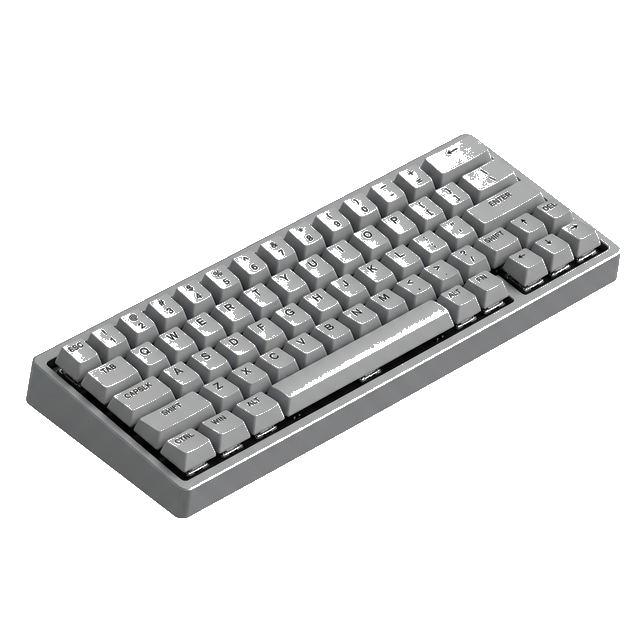
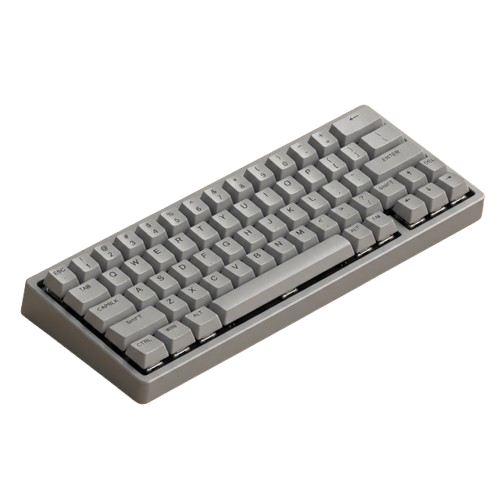
fixing the keyboard image, improve horizontal scrollbar, improve movement card and implement pinch detection :)

diff --git a/app/components/Canvas/CanvasArea.tsx b/app/components/Canvas/CanvasArea.tsx
@@ -47,8 +47,16 @@ export default function CanvasArea({
   const velocityRef = useRef({ x: 0, y: 0 });
   const momentumRef = useRef<number | null>(null);
 
+  const activePointersRef = useRef<Map<number, { x: number; y: number }>>(
+    new Map(),
+  );
+  const prevPinchDistRef = useRef<number | null>(null);
+
   const handlePointerDown = (e: React.PointerEvent) => {
     if ((e.target as HTMLElement).closest('button')) return;
+
+    activePointersRef.current.set(e.pointerId, { x: e.clientX, y: e.clientY });
+
     // Cancel any ongoing momentum animation
     if (momentumRef.current !== null) {
       cancelAnimationFrame(momentumRef.current);
@@ -58,44 +66,102 @@ export default function CanvasArea({
     setIsDragging(true);
     hasDragged.current = false;
     velocityRef.current = { x: 0, y: 0 };
-    lastMousePos.current = { x: e.clientX, y: e.clientY };
+
+    if (activePointersRef.current.size === 1) {
+      lastMousePos.current = { x: e.clientX, y: e.clientY };
+    } else if (activePointersRef.current.size === 2) {
+      const pts = Array.from(activePointersRef.current.values());
+      prevPinchDistRef.current = Math.hypot(
+        pts[0].x - pts[1].x,
+        pts[0].y - pts[1].y,
+      );
+    }
+
     (e.target as HTMLElement).setPointerCapture(e.pointerId);
   };
 
   const handlePointerMove = (e: React.PointerEvent) => {
     if (!isDraggingRef.current) return;
-    const dx = e.clientX - lastMousePos.current.x;
-    const dy = e.clientY - lastMousePos.current.y;
-    if (Math.abs(dx) > 2 || Math.abs(dy) > 2) {
-      hasDragged.current = true;
+
+    if (activePointersRef.current.has(e.pointerId)) {
+      activePointersRef.current.set(e.pointerId, {
+        x: e.clientX,
+        y: e.clientY,
+      });
     }
-    // Track velocity for momentum
-    velocityRef.current = { x: dx, y: dy };
-    setPan((p) => ({ x: p.x + dx, y: p.y + dy }));
-    lastMousePos.current = { x: e.clientX, y: e.clientY };
+
+    if (activePointersRef.current.size === 2) {
+      // Handle pinch zoom
+      const pts = Array.from(activePointersRef.current.values());
+      const currentDist = Math.hypot(pts[0].x - pts[1].x, pts[0].y - pts[1].y);
+
+      if (prevPinchDistRef.current !== null) {
+        const delta = currentDist - prevPinchDistRef.current;
+        const zoomDelta = delta * 0.005; // Pinch sensitivity
+        setZoomLevel((z) => Math.min(Math.max(z + zoomDelta, 0.4), 3));
+      }
+      prevPinchDistRef.current = currentDist;
+      hasDragged.current = true;
+      return;
+    }
+
+    if (activePointersRef.current.size === 1) {
+      const dx = e.clientX - lastMousePos.current.x;
+      const dy = e.clientY - lastMousePos.current.y;
+      if (Math.abs(dx) > 2 || Math.abs(dy) > 2) {
+        hasDragged.current = true;
+      }
+      // Track velocity for momentum
+      velocityRef.current = { x: dx, y: dy };
+      setPan((p) => ({ x: p.x + dx, y: p.y + dy }));
+      lastMousePos.current = { x: e.clientX, y: e.clientY };
+    }
   };
 
   const handlePointerUp = (e: React.PointerEvent) => {
-    isDraggingRef.current = false;
-    setIsDragging(false);
-    (e.target as HTMLElement).releasePointerCapture(e.pointerId);
+    activePointersRef.current.delete(e.pointerId);
 
-    // Apply momentum/inertia on release
-    let vx = velocityRef.current.x * 4;
-    let vy = velocityRef.current.y * 4;
-    const decay = 0.88;
+    if (activePointersRef.current.size < 2) {
+      prevPinchDistRef.current = null;
+    }
 
-    const animate = () => {
-      vx *= decay;
-      vy *= decay;
-      if (Math.abs(vx) < 0.5 && Math.abs(vy) < 0.5) {
-        momentumRef.current = null;
-        return;
+    if (activePointersRef.current.size === 1) {
+      // If we go from 2 fingers to 1 finger, reset lastMousePos to prevent jump
+      const remainingPointer = Array.from(
+        activePointersRef.current.values(),
+      )[0];
+      lastMousePos.current = { x: remainingPointer.x, y: remainingPointer.y };
+      return;
+    }
+
+    if (activePointersRef.current.size === 0) {
+      isDraggingRef.current = false;
+      setIsDragging(false);
+      try {
+        (e.target as HTMLElement).releasePointerCapture(e.pointerId);
+      } catch {
+        // ignore if not captured
       }
-      setPan((p) => ({ x: p.x + vx, y: p.y + vy }));
-      momentumRef.current = requestAnimationFrame(animate);
-    };
-    momentumRef.current = requestAnimationFrame(animate);
+
+      // Apply momentum/inertia on release only if it was a single-finger pan
+      let vx = velocityRef.current.x * 4;
+      let vy = velocityRef.current.y * 4;
+      const decay = 0.88;
+
+      if (Math.abs(vx) > 0.5 || Math.abs(vy) > 0.5) {
+        const animate = () => {
+          vx *= decay;
+          vy *= decay;
+          if (Math.abs(vx) < 0.5 && Math.abs(vy) < 0.5) {
+            momentumRef.current = null;
+            return;
+          }
+          setPan((p) => ({ x: p.x + vx, y: p.y + vy }));
+          momentumRef.current = requestAnimationFrame(animate);
+        };
+        momentumRef.current = requestAnimationFrame(animate);
+      }
+    }
   };
 
   useEffect(() => {
@@ -300,76 +366,102 @@ export default function CanvasArea({
                             : 'w-[90px]'
             }`}
           />
-
-          {/* Movement Controls Overlay */}
-          {isSelected && onMoveItem && (
-            <div className="absolute top-[10%] left-1/2 -translate-x-1/2 -translate-y-[120%] z-[300] w-max opacity-0 group-hover:opacity-100 hover:opacity-100 transition-all duration-300">
-              <div className="grid grid-cols-3 gap-1.5 p-2 bg-white/90 dark:bg-slate-900/90 backdrop-blur-xl rounded-2xl shadow-[0_10px_40px_-10px_rgba(0,0,0,0.3)] border border-slate-200/50 dark:border-white/10">
-                {/* Row 1: Up-Left, Empty, Up-Right */}
-                <button
-                  onClick={(e) => {
-                    e.stopPropagation();
-                    onMoveItem(acc.id, -1, 0);
-                  }}
-                  title="Move Up-Left (Left)"
-                  className="w-10 h-10 flex items-center justify-center rounded-xl bg-slate-100/50 dark:bg-slate-800/50 text-slate-600 dark:text-slate-400 hover:bg-indigo-50 dark:hover:bg-indigo-500/20 hover:text-indigo-600 dark:hover:text-indigo-400 transition-all hover:scale-110 active:scale-95"
-                >
-                  <ArrowUpLeft size={18} />
-                </button>
-                <div />
-                <button
-                  onClick={(e) => {
-                    e.stopPropagation();
-                    onMoveItem(acc.id, 0, -1);
-                  }}
-                  title="Move Up-Right (Back)"
-                  className="w-10 h-10 flex items-center justify-center rounded-xl bg-slate-100/50 dark:bg-slate-800/50 text-slate-600 dark:text-slate-400 hover:bg-indigo-50 dark:hover:bg-indigo-500/20 hover:text-indigo-600 dark:hover:text-indigo-400 transition-all hover:scale-110 active:scale-95"
-                >
-                  <ArrowUpRight size={18} />
-                </button>
-
-                {/* Row 2: Empty, Trash, Empty */}
-                <div />
-                <button
-                  onClick={(e) => {
-                    e.stopPropagation();
-                    onRemoveItem?.(acc.item, acc.id);
-                  }}
-                  title="Remove Item"
-                  className="w-10 h-10 flex items-center justify-center rounded-xl bg-slate-100/50 dark:bg-slate-800/50 text-slate-600 dark:text-slate-400 hover:bg-red-50 dark:hover:bg-red-500/20 hover:text-red-600 dark:hover:text-red-400 transition-all hover:scale-110 active:scale-95"
-                >
-                  <Trash2 size={18} />
-                </button>
-                <div />
-
-                {/* Row 3: Down-Left, Empty, Down-Right */}
-                <button
-                  onClick={(e) => {
-                    e.stopPropagation();
-                    onMoveItem(acc.id, 0, 1);
-                  }}
-                  title="Move Down-Left (Front)"
-                  className="w-10 h-10 flex items-center justify-center rounded-xl bg-slate-100/50 dark:bg-slate-800/50 text-slate-600 dark:text-slate-400 hover:bg-indigo-50 dark:hover:bg-indigo-500/20 hover:text-indigo-600 dark:hover:text-indigo-400 transition-all hover:scale-110 active:scale-95"
-                >
-                  <ArrowDownLeft size={18} />
-                </button>
-                <div />
-                <button
-                  onClick={(e) => {
-                    e.stopPropagation();
-                    onMoveItem(acc.id, 1, 0);
-                  }}
-                  title="Move Down-Right (Right)"
-                  className="w-10 h-10 flex items-center justify-center rounded-xl bg-slate-100/50 dark:bg-slate-800/50 text-slate-600 dark:text-slate-400 hover:bg-indigo-50 dark:hover:bg-indigo-500/20 hover:text-indigo-600 dark:hover:text-indigo-400 transition-all hover:scale-110 active:scale-95"
-                >
-                  <ArrowDownRight size={18} />
-                </button>
-              </div>
-            </div>
-          )}
         </div>
       );
     });
+  };
+
+  const renderSelectedOverlay = () => {
+    if (!selectedItemId || !onMoveItem) return null;
+    const acc = selectedState.accessories.find((a) => a.id === selectedItemId);
+    if (!acc) return null;
+
+    const size = acc.item.size || { cols: 1, rows: 1 };
+    const { screenX, screenY } = getScreenPos(
+      acc.x,
+      acc.y,
+      size.cols,
+      size.rows,
+      (acc.zone || 'desk') as 'desk' | 'table' | 'yard' | 'relax',
+    );
+
+    const offsetX = acc.item.originOffset?.x || 0;
+    const offsetY = acc.item.originOffset?.y || 0;
+
+    return (
+      <div
+        className="absolute w-0 h-0 z-[200] pointer-events-none"
+        style={{
+          left: '50%',
+          top: '50%',
+          transform: `translate(calc(-50% + ${screenX + offsetX}px), calc(-80% + ${screenY + stepY + offsetY}px))`,
+        }}
+      >
+        <div className="absolute top-[10%] left-1/2 -translate-x-1/2 -translate-y-[calc(120%+150px)] pointer-events-auto w-max transition-all duration-300">
+          <div className="grid grid-cols-3 gap-1.5 p-2 bg-white/90 dark:bg-slate-900/90 backdrop-blur-xl rounded-2xl shadow-[0_10px_40px_-10px_rgba(0,0,0,0.3)] border border-slate-200/50 dark:border-white/10">
+            {/* Row 1: Up-Left, Empty, Up-Right */}
+            <button
+              onClick={(e) => {
+                e.stopPropagation();
+                onMoveItem(acc.id, -1, 0);
+              }}
+              title="Move Up-Left (Left)"
+              className="w-10 h-10 flex items-center justify-center rounded-xl bg-slate-100/50 dark:bg-slate-800/50 text-slate-600 dark:text-slate-400 hover:bg-indigo-50 dark:hover:bg-indigo-500/20 hover:text-indigo-600 dark:hover:text-indigo-400 transition-all hover:scale-110 active:scale-95"
+            >
+              <ArrowUpLeft size={18} />
+            </button>
+            <div />
+            <button
+              onClick={(e) => {
+                e.stopPropagation();
+                onMoveItem(acc.id, 0, -1);
+              }}
+              title="Move Up-Right (Back)"
+              className="w-10 h-10 flex items-center justify-center rounded-xl bg-slate-100/50 dark:bg-slate-800/50 text-slate-600 dark:text-slate-400 hover:bg-indigo-50 dark:hover:bg-indigo-500/20 hover:text-indigo-600 dark:hover:text-indigo-400 transition-all hover:scale-110 active:scale-95"
+            >
+              <ArrowUpRight size={18} />
+            </button>
+
+            {/* Row 2: Empty, Trash, Empty */}
+            <div />
+            <button
+              onClick={(e) => {
+                e.stopPropagation();
+                onRemoveItem?.(acc.item, acc.id);
+              }}
+              title="Remove Item"
+              className="w-10 h-10 flex items-center justify-center rounded-xl bg-slate-100/50 dark:bg-slate-800/50 text-slate-600 dark:text-slate-400 hover:bg-red-50 dark:hover:bg-red-500/20 hover:text-red-600 dark:hover:text-red-400 transition-all hover:scale-110 active:scale-95"
+            >
+              <Trash2 size={18} />
+            </button>
+            <div />
+
+            {/* Row 3: Down-Left, Empty, Down-Right */}
+            <button
+              onClick={(e) => {
+                e.stopPropagation();
+                onMoveItem(acc.id, 0, 1);
+              }}
+              title="Move Down-Left (Front)"
+              className="w-10 h-10 flex items-center justify-center rounded-xl bg-slate-100/50 dark:bg-slate-800/50 text-slate-600 dark:text-slate-400 hover:bg-indigo-50 dark:hover:bg-indigo-500/20 hover:text-indigo-600 dark:hover:text-indigo-400 transition-all hover:scale-110 active:scale-95"
+            >
+              <ArrowDownLeft size={18} />
+            </button>
+            <div />
+            <button
+              onClick={(e) => {
+                e.stopPropagation();
+                onMoveItem(acc.id, 1, 0);
+              }}
+              title="Move Down-Right (Right)"
+              className="w-10 h-10 flex items-center justify-center rounded-xl bg-slate-100/50 dark:bg-slate-800/50 text-slate-600 dark:text-slate-400 hover:bg-indigo-50 dark:hover:bg-indigo-500/20 hover:text-indigo-600 dark:hover:text-indigo-400 transition-all hover:scale-110 active:scale-95"
+            >
+              <ArrowDownRight size={18} />
+            </button>
+          </div>
+        </div>
+      </div>
+    );
   };
 
   return (
@@ -489,6 +581,9 @@ export default function CanvasArea({
               />
             </div>
           )}
+        </div>
+        <div className="absolute inset-0 flex items-center justify-center pointer-events-none z-[150]">
+          {renderSelectedOverlay()}
         </div>
       </div>
 

diff --git a/app/components/Sidebar/InventoryPanel.tsx b/app/components/Sidebar/InventoryPanel.tsx
@@ -45,7 +45,7 @@ export default function InventoryPanel({
           tomorrow.
         </p>
       </div>
-      <div className="flex gap-6 overflow-x-auto px-8 pb-4 border-b border-black/5 dark:border-white/5 scrollbar-none">
+      <div className="flex gap-6 overflow-x-auto px-8 pb-4 border-b border-black/5 dark:border-white/5 scrollbar-thin">
         {(
           [
             'desks',

diff --git a/app/layout.tsx b/app/layout.tsx
@@ -19,7 +19,12 @@ export default function RootLayout({
 }>) {
   return (
     <html lang="en" suppressHydrationWarning>
-      <body className={`${spaceGrotesk.variable} antialiased`}>{children}</body>
+      <body
+        className={`${spaceGrotesk.variable} antialiased`}
+        suppressHydrationWarning
+      >
+        {children}
+      </body>
     </html>
   );
 }

diff --git a/app/globals.css b/app/globals.css
@@ -11,6 +11,7 @@
 @layer utilities {
   .scrollbar-thin::-webkit-scrollbar {
     width: 6px;
+    height: 6px;
   }
   .scrollbar-thin::-webkit-scrollbar-track {
     background: transparent;
